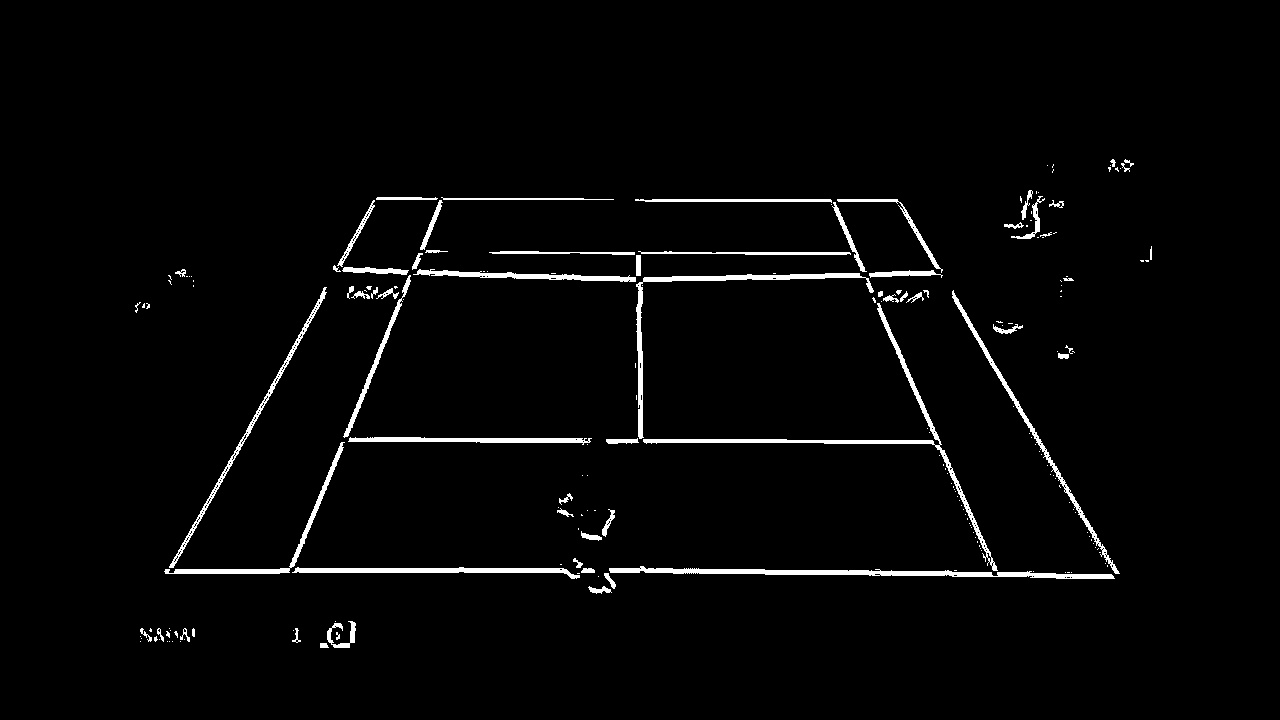
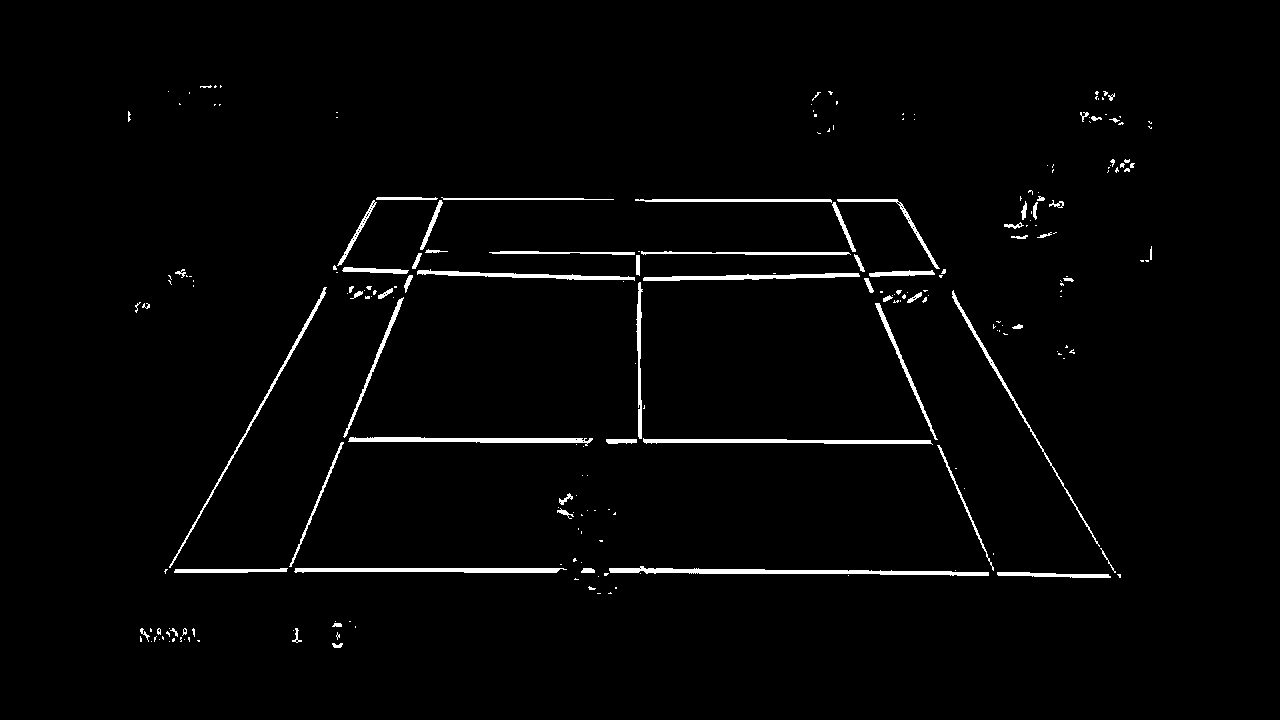
Fixing tau filtering algorithm

diff --git a/TennisCourtDetection/TennisCourtDetector.py b/TennisCourtDetection/TennisCourtDetector.py
@@ -159,7 +159,11 @@ class TennisCourt:
     ]
 
     def __init__(self, image, save_images_dir=None, save_images_name='detect-court') -> None:
-        self._image = image
+        self._image = image.copy()
+        height, width, _ = image.shape
+        self._height_scale = 360 / height
+        self._width_scale = 640 / width
+        
         self._rows, self._columns, _ = self._image.shape
         self._court_lines = {}
         self._court_keypoints = {}
@@ -187,7 +191,7 @@ class TennisCourt:
         image[:, :cut_columns_boundary[0]] = 0
         image[:, cut_columns_boundary[1]:] = 0
 
-        cut_rows_boundary = np.round([0.20 * self._rows, 0.90 * self._rows]).astype(np.uint64)
+        cut_rows_boundary = np.round([0.10 * self._rows, 0.90 * self._rows]).astype(np.uint64)
         image[:cut_rows_boundary[0], :] = 0
         image[cut_rows_boundary[1]:, :] = 0
 
@@ -196,6 +200,7 @@ class TennisCourt:
 
         # Step 3. Remove white pixels that are not part of a line of width tau
         tau_up_down, tau_left_right = (5, 5)
+        image_copy = image.copy()
         for r in range(self._rows):
             for c in range(self._columns):
                 if image[r, c] > 0:
@@ -208,8 +213,9 @@ class TennisCourt:
                     left_right_non_white = image[r, left] == 0 and image[r, right] == 0
                     up_down_non_white = image[up, c] == 0 and image[down, c] == 0
                     if left_right_non_white == up_down_non_white:
-                        image[r, c] = 0
-        
+                        image_copy[r, c] = 0
+        image = image_copy
+
         if self._save_images_path is not None:
             cv2.imwrite(self._save_images_path + '-tau-lines.jpg', image)
 
@@ -219,7 +225,7 @@ class TennisCourt:
         white_pixels = np.column_stack((white_pixels[0], white_pixels[1]))
         court_lines = []
         for _ in range(TennisCourt.LineID.NUMBER_OF_LINES):
-            model_robust, inliers = ransac(white_pixels, LineModelND, min_samples=3, residual_threshold=tau, max_trials=500)
+            model_robust, inliers = ransac(white_pixels, LineModelND, min_samples=2, residual_threshold=tau, max_trials=1000)
 
             line = np.array(white_pixels[inliers])
             white_pixels = np.array(white_pixels[[not inlier for inlier in inliers]])
@@ -245,7 +251,8 @@ class TennisCourt:
 
         if len(horizontal_court_lines) != 5 or len(vertical_court_lines) != 5:
             logging.debug(f'{len(horizontal_court_lines)} horizontal lines detected, {len(vertical_court_lines)} vertical lines detected, needed 5 of each')
-            return False
+            self.court_detected = False
+            return self.court_detected
         
         # Sort horizontal court lines by their midpoint row
         horizontal_court_lines = sorted(horizontal_court_lines, key=lambda x: x.midpoint[0])
@@ -290,26 +297,33 @@ class TennisCourt:
         self.court_detected = True
 
         if self._save_images_path:
-            original_image_copy = self._image.copy()
-            original_image_copy = self.draw_detected_keypoints(original_image_copy)
+            original_image_copy = self.draw_detected_keypoints()
             cv2.imwrite(self._save_images_path + '-keypoints.jpg', original_image_copy)
 
         if self._save_images_path:
-            original_image_copy = self._image.copy()
-            detected_court = self.draw_detected_court(original_image_copy)
+            detected_court = self.draw_detected_court()
             cv2.imwrite(self._save_images_path + '.jpg', detected_court)
 
         return self.court_detected
 
-    def draw_detected_keypoints(self, image):
+    def draw_detected_keypoints(self, image=None):
+        if not self.court_detected:
+            return None
+
+        if image is None:
+            image = self._image.copy()
+        
         for intersection_id in self._court_keypoints:
             row, col = self._court_keypoints[intersection_id]
             image = cv2.circle(image, center=(col, row), radius=5, color=(0, 0, 255), thickness=-1)
         return image
 
-    def draw_detected_court(self, image):
+    def draw_detected_court(self, image=None):
         if not self.court_detected:
             return None
+
+        if image is None:
+            image = self._image.copy()
 
         for p1_id, p2_id in TennisCourt.DRAW_COURT_KEYPOINT_PAIRS:
             p1 = self._court_keypoints[p1_id]

diff --git a/Tennis3DTracker.py b/Tennis3DTracker.py
@@ -4,7 +4,9 @@ import logging
 import collections
 import cv2
 
+import TennisCourtDetection
 import Tennis3DTrackerHelper
+from TennisCourtDetection import TennisCourtDetector
 
 # Set up logging
 logging.basicConfig(format='%(asctime)s [%(levelname)s] : %(message)s', level=logging.DEBUG)
@@ -68,7 +70,16 @@ for _ in range(2):
 ball_position_buffer = collections.deque(maxlen=15)
 while not input_video.atEndOfVideo:
     image = input_video.read_next()
-    out_image = image
+    out_image = image.copy()
+
+    tennis_court = TennisCourtDetector.TennisCourt(image)
+    new_court_detected = tennis_court.detect_court()
+    if new_court_detected:
+        logging.debug('Recalibrating camera using new detected keypoints')
+        out_image = tennis_court.draw_detected_court()
+    else:
+        logging.warning(f'Could not detect tennis court in frame {input_video.currentFrame}')
+    
     image = Tennis3DTrackerHelper.image_to_float_and_reshape(image, tracknet_dimensions)
     image_buffer.append(image)
 
@@ -81,3 +92,7 @@ while not input_video.atEndOfVideo:
         out_image = cv2.circle(out_image, position, radius=2, color=color, thickness=2)
     output_video.write_next(out_image)
     logging.debug(f'Ball position in frame[{input_video.currentFrame}] = {ball_position}')
+
+    if input_video.currentFrame == 300:
+        break
+

diff --git a/TennisCourtDetection/__init__.py b/TennisCourtDetection/__init__.py
@@ -1,0 +1,1 @@
+import TennisCourtDetection
